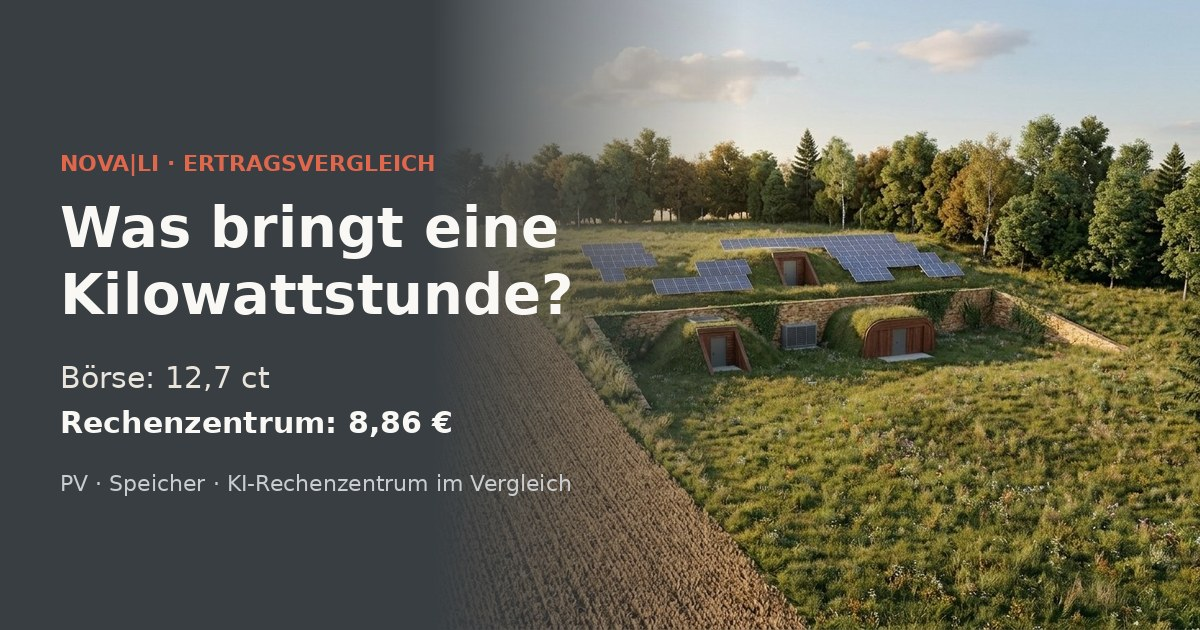
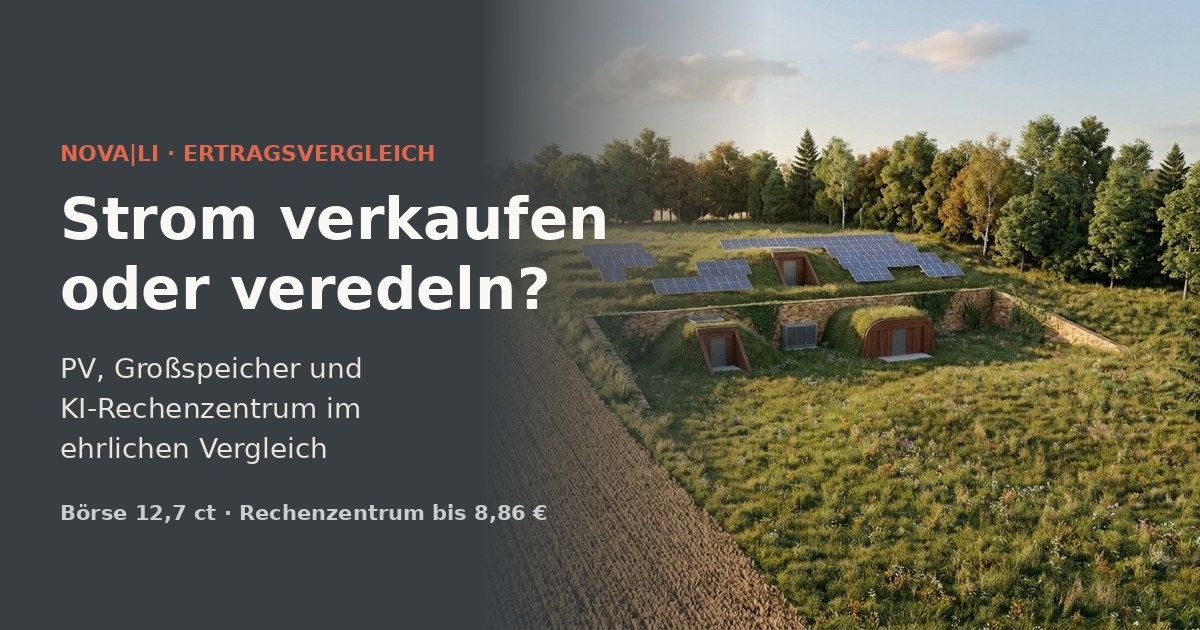
Add files via upload

Changed region(s): [[0.0308, 0.573, 0.4933, 0.8444], [0.0308, 0.3016, 0.5242, 0.5127], [0.0308, 0.0, 0.4933, 0.2714]]

diff --git a/index.html b/index.html
@@ -1,12 +1,12 @@
 <meta property="og:type" content="website">
-<meta property="og:title" content="Was bringt eine Kilowattstunde? – Nova|LI">
-<meta property="og:description" content="Börse 12,7 ct, KI-Rechenzentrum 8,86 €: PV, Großspeicher und Micro-Rechenzentrum im ehrlichen Vergleich – mit Quellen, alle Werte selbst einstellbar.">
+<meta property="og:title" content="Strom verkaufen oder veredeln? – Nova|LI">
+<meta property="og:description" content="PV, Großspeicher und KI-Rechenzentrum im ehrlichen Vergleich: An der Börse bringt eine Kilowattstunde 12,7 ct, im KI-Rechenzentrum bis zu 8,86 €. Mit Quellen, alle Werte selbst einstellbar.">
 <meta property="og:image" content="https://rietzinfo-dot.github.io/Kilowattstunde/vorschau.jpg">
 <meta property="og:image:width" content="1200"><meta property="og:image:height" content="630">
 <meta property="og:url" content="https://rietzinfo-dot.github.io/Kilowattstunde/">
 <meta name="twitter:card" content="summary_large_image">
 <meta name="description" content="PV, Großspeicher und KI-Rechenzentrum im ehrlichen Vergleich: Was bringt eine Kilowattstunde? Mit Quellen, alle Werte selbst einstellbar.">
-<title>Was bringt eine Kilowattstunde?</title>
+<title>Strom verkaufen oder veredeln?</title>
 <link rel="preconnect" href="https://fonts.googleapis.com">
 <link rel="stylesheet" href="https://fonts.googleapis.com/css2?family=IBM+Plex+Sans:wght@400;500;600;700&family=IBM+Plex+Mono:wght@400;500&display=swap">
 <style>
@@ -158,8 +158,8 @@ dd,.amt,.v{text-align:right}
 
 <header class="top" lang="de"><div class="wrap">
   <div class="eyebrow">Nova|LI · Ertragsvergleich · Stand 01.10.2026</div>
-  <h1>Was bringt eine Kilowattstunde?</h1>
-  <p class="lead">Drei Wege, Strom und Kapital am selben Standort einzusetzen: einspeisen, speichern und handeln, oder im eigenen Micro-Rechenzentrum zu KI-Rechenleistung veredeln. Gleiches Kapital, ehrliche Annahmen, alle Werte im Rechner anpassbar.</p>
+  <h1>Strom verkaufen oder veredeln?</h1>
+  <p class="lead"><b>PV, Großspeicher und KI-Rechenzentrum im ehrlichen Vergleich.</b> Drei Wege, Strom und Kapital am selben Standort einzusetzen: einspeisen, speichern und handeln, oder im eigenen Micro-Rechenzentrum zu KI-Rechenleistung veredeln. Gleiches Kapital, ehrliche Annahmen, alle Werte im Rechner anpassbar.</p>
 </div><p class="viz"><b>Nova|LI Green Micro Data Center</b><span>Visualisierung · KI-generiert, nicht maßstabsgetreu</span></p></header>
 
 <main class="wrap" lang="de">
